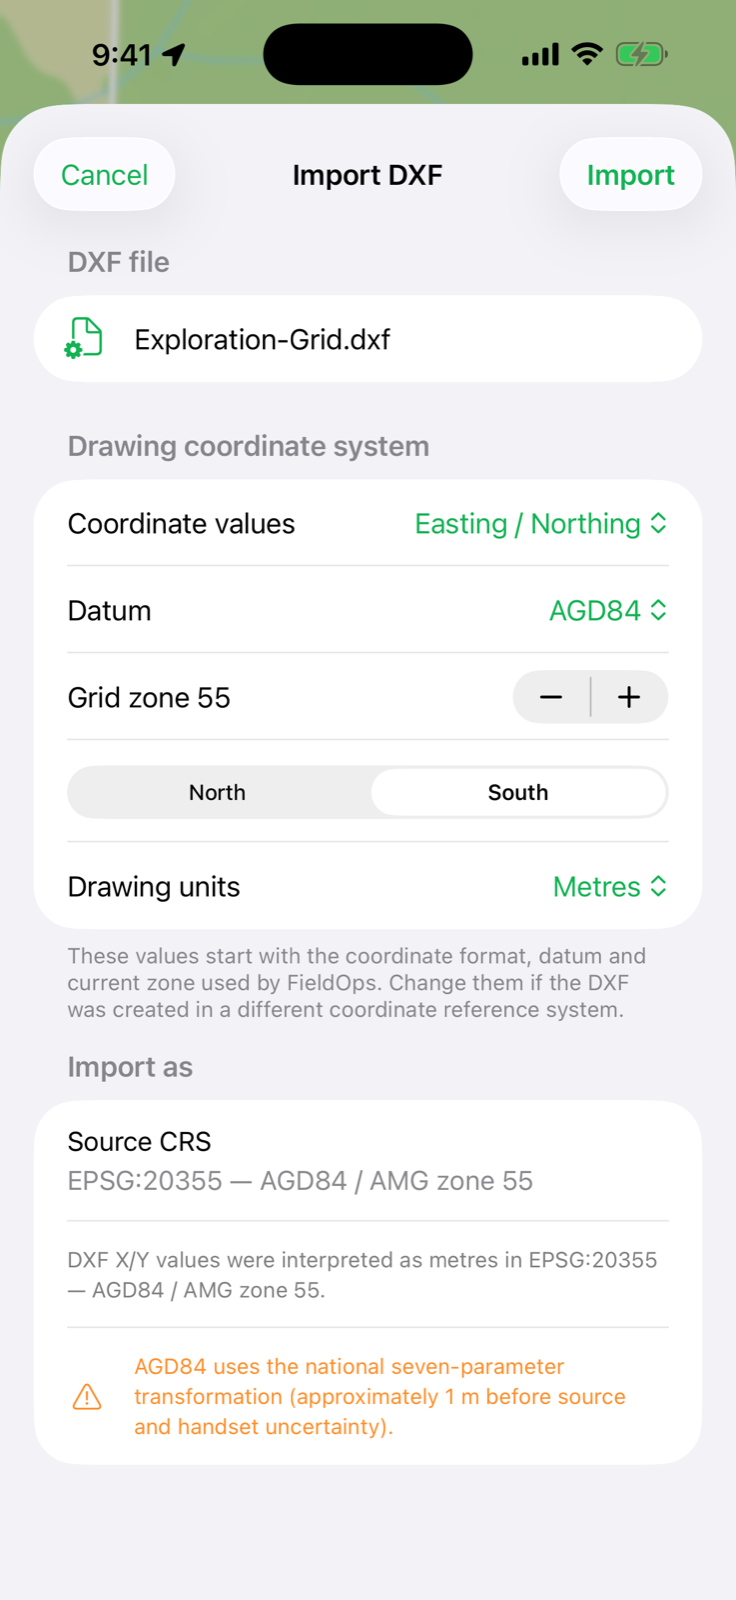
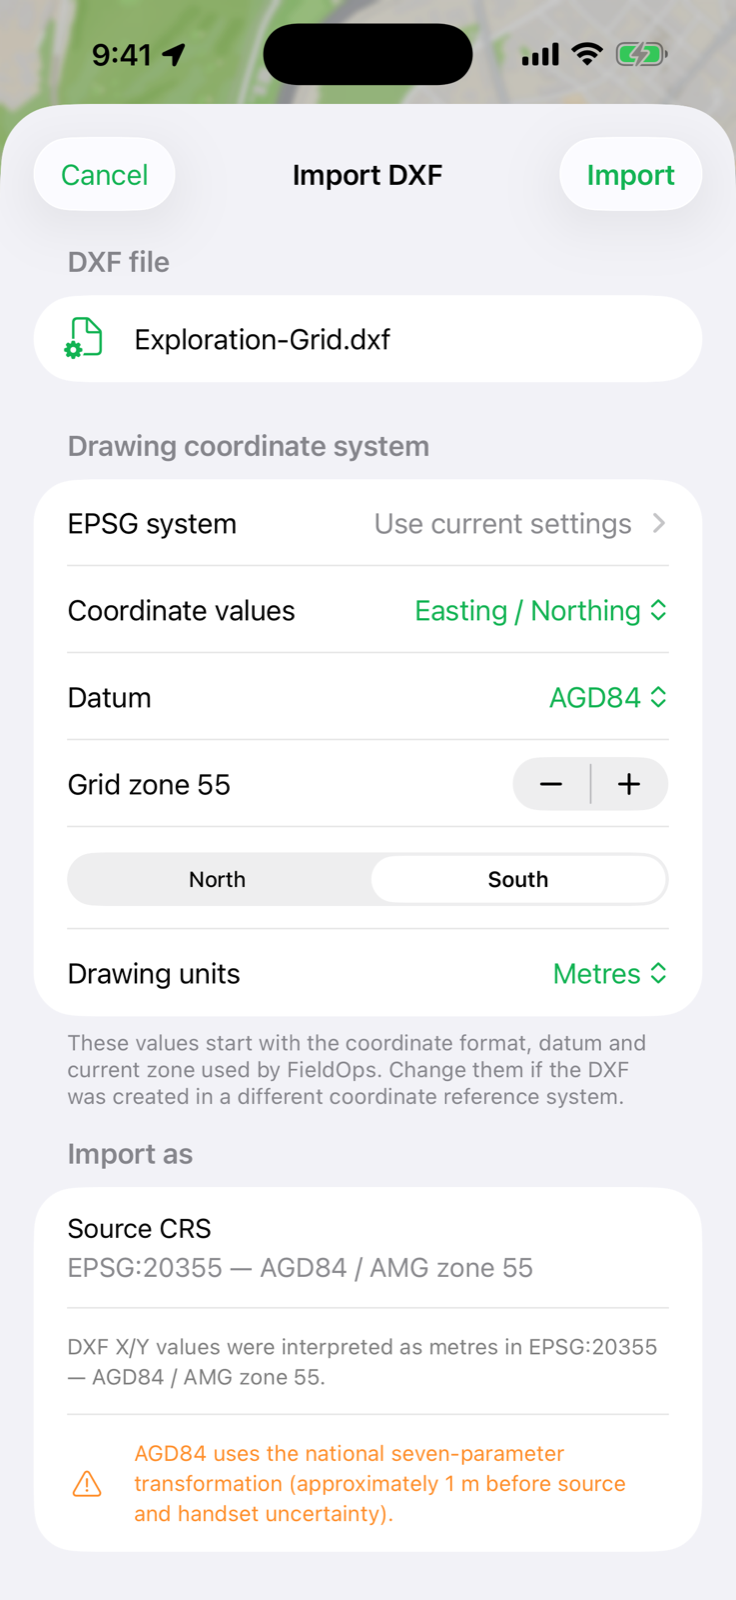
Refresh FieldOps screenshots from current app

diff --git a/docs/fieldops.html b/docs/fieldops.html
@@ -9,7 +9,7 @@
   <meta property="og:type" content="website"/>
   <meta property="og:title" content="FieldOps by DrillOps — Field evidence, mapped"/>
   <meta property="og:description" content="Capture geotagged field photos, record tracks, navigate to waypoints and bring survey drawings onto the map."/>
-  <meta property="og:image" content="https://drillops.com.au/assets/fieldops/ipad-camera.png"/>
+  <meta property="og:image" content="https://drillops.com.au/assets/fieldops/ipad-camera.jpg"/>
   <title>FieldOps by DrillOps — Field camera, tracking and mapping</title>
   <link rel="preconnect" href="https://fonts.googleapis.com"/>
   <link rel="preconnect" href="https://fonts.gstatic.com" crossorigin/>
@@ -23,10 +23,10 @@
     .capability-grid{display:grid;grid-template-columns:repeat(4,1fr);gap:14px;margin-top:52px}.capability{min-height:190px;padding:28px;border:1px solid var(--line);border-radius:10px;background:#fff;box-shadow:0 8px 24px rgba(13,27,48,.04)}.capability-icon{display:grid;place-items:center;width:42px;height:42px;margin-bottom:24px;border-radius:8px;background:#e5eee1;color:var(--accent);font:600 11px var(--mono)}.capability h3{margin-bottom:9px;font-size:18px}.capability p{color:#6b778b;line-height:1.6}
     .showcase{display:grid;grid-template-columns:.8fr 1.2fr;gap:72px;align-items:center}.showcase-copy h2{margin:14px 0 18px;font-size:clamp(38px,5vw,58px);line-height:1.08;letter-spacing:-2.4px}.showcase-copy>p{color:var(--muted);font-size:16px;line-height:1.7}.check-list{display:grid;gap:14px;margin-top:28px}.check-list span{display:flex;gap:12px;font-weight:650;line-height:1.45}.check-list span:before{content:'✓';display:grid;place-items:center;flex:0 0 24px;height:24px;border-radius:50%;background:#e5eee1;color:var(--accent)}.visual-stage{position:relative;min-height:620px;border-radius:20px;background:var(--forest);overflow:hidden}.visual-ipad{position:absolute;left:40px;top:58px;width:76%;border-radius:12px;box-shadow:0 26px 70px rgba(0,0,0,.45)}.visual-phone{position:absolute;right:28px;bottom:-45px;width:31%;border-radius:22px;box-shadow:0 24px 60px rgba(0,0,0,.55)}
     .workflow-row{display:grid;grid-template-columns:repeat(3,1fr);margin-top:54px;border-top:1px solid var(--line);border-bottom:1px solid var(--line)}.workflow-item{padding:34px 32px;border-right:1px solid var(--line);text-align:left}.workflow-item:last-child{border-right:0}.workflow-number{color:var(--lime);font-size:12px;font-weight:900;letter-spacing:1.5px}.workflow-item h3{margin:13px 0 8px;font-size:21px}.workflow-item p{color:#6b778b;line-height:1.65}
-    .screen-grid{display:grid;grid-template-columns:1.25fr 1fr 1fr;gap:18px;margin-top:52px;align-items:start}.screen-card{overflow:hidden;border:1px solid var(--line);border-radius:14px;background:#fff;box-shadow:0 18px 46px rgba(13,27,48,.09)}.screen-card img{display:block;width:100%;height:auto}.screen-copy{padding:20px 22px 22px}.screen-copy strong{display:block;margin-bottom:6px;font-size:16px}.screen-copy span{color:#6b778b;line-height:1.55}.format-row{display:flex;justify-content:center;gap:10px;flex-wrap:wrap;margin-top:34px}.format-row span{padding:10px 14px;border:1px solid #ccd8cd;border-radius:999px;background:#fff;color:var(--accent);font:600 11px var(--mono)}
+    .screen-grid{display:grid;grid-template-columns:repeat(4,1fr);gap:18px;margin-top:52px;align-items:start}.screen-card{overflow:hidden;border:1px solid var(--line);border-radius:14px;background:#fff;box-shadow:0 18px 46px rgba(13,27,48,.09)}.screen-card img{display:block;width:100%;height:auto}.screen-copy{padding:20px 22px 22px}.screen-copy strong{display:block;margin-bottom:6px;font-size:16px}.screen-copy span{color:#6b778b;line-height:1.55}.format-row{display:flex;justify-content:center;gap:10px;flex-wrap:wrap;margin-top:34px}.format-row span{padding:10px 14px;border:1px solid #ccd8cd;border-radius:999px;background:#fff;color:var(--accent);font:600 11px var(--mono)}
     .download-band{display:grid;grid-template-columns:1fr auto;gap:48px;align-items:center;padding:58px;border-radius:14px;background:var(--forest);color:#fff}.download-band h2{margin:14px 0;font-size:44px;letter-spacing:-1.5px}.download-band p{max-width:650px;color:#b9c4d2;font-size:16px;line-height:1.7}.download-band .marketing-button{margin-top:24px}.app-mark{display:grid;place-items:center;width:160px;height:160px;border-radius:34px;background:linear-gradient(145deg,#0b4a3a,#041b16);color:var(--lime);box-shadow:inset 0 0 0 1px rgba(255,255,255,.12);font:800 24px var(--mono);letter-spacing:-1px}.marketing-footer{display:flex;justify-content:space-between;gap:20px;padding:24px max(28px,calc((100vw - 1160px)/2));background:#121714;color:#7f8984;font-size:11px}.marketing-footer a{color:inherit}
-    @media(max-width:900px){.marketing-nav-link{display:none}.marketing-hero{min-height:720px;padding-top:72px}.product-stage{height:340px;margin-top:54px}.stage-ipad{right:55px}.stage-phone{width:150px;bottom:-65px}.capability-grid{grid-template-columns:1fr 1fr}.showcase{grid-template-columns:1fr;gap:44px}.visual-stage{min-height:560px}.workflow-row{grid-template-columns:1fr 1fr}.workflow-item{border-bottom:1px solid var(--line)}.screen-grid{grid-template-columns:1fr 1fr}.screen-card:first-child{grid-column:1/-1}.download-band{grid-template-columns:1fr}.app-mark{width:130px;height:130px}}
-    @media(max-width:560px){.marketing-nav{height:66px;padding:0 16px;gap:12px}.marketing-nav .marketing-button{min-height:40px;padding:0 12px;font-size:12px}.marketing-logo{font-size:22px}.marketing-hero{min-height:660px;padding:68px 16px 0}.marketing-hero h1{font-size:45px;letter-spacing:-2px}.hero-copy{font-size:17px}.product-stage{width:100%;height:250px;margin-top:45px}.stage-ipad{right:35px;padding:6px;border-radius:10px}.stage-phone{right:3px;bottom:-25px;width:105px;padding:5px;border-radius:17px}.marketing-strip{gap:18px;padding:24px 16px;font-size:9px}.marketing-section{padding:76px 16px}.marketing-section h2{font-size:38px;letter-spacing:-1.5px}.capability-grid,.workflow-row,.screen-grid{grid-template-columns:1fr}.screen-card:first-child{grid-column:auto}.workflow-item{border-right:0}.visual-stage{min-height:440px}.visual-ipad{left:18px;top:42px;width:82%}.visual-phone{right:12px;width:34%}.download-band{padding:34px 24px}.download-band h2{font-size:36px}.app-mark{width:110px;height:110px;border-radius:25px;font-size:18px}.marketing-footer{padding:22px 16px;flex-direction:column}}
+    @media(max-width:900px){.marketing-nav-link{display:none}.marketing-hero{min-height:720px;padding-top:72px}.product-stage{height:340px;margin-top:54px}.stage-ipad{right:55px}.stage-phone{width:150px;bottom:-65px}.capability-grid{grid-template-columns:1fr 1fr}.showcase{grid-template-columns:1fr;gap:44px}.visual-stage{min-height:560px}.workflow-row{grid-template-columns:1fr 1fr}.workflow-item{border-bottom:1px solid var(--line)}.screen-grid{grid-template-columns:1fr 1fr}.download-band{grid-template-columns:1fr}.app-mark{width:130px;height:130px}}
+    @media(max-width:560px){.marketing-nav{height:66px;padding:0 16px;gap:12px}.marketing-nav .marketing-button{min-height:40px;padding:0 12px;font-size:12px}.marketing-logo{font-size:22px}.marketing-hero{min-height:660px;padding:68px 16px 0}.marketing-hero h1{font-size:45px;letter-spacing:-2px}.hero-copy{font-size:17px}.product-stage{width:100%;height:250px;margin-top:45px}.stage-ipad{right:35px;padding:6px;border-radius:10px}.stage-phone{right:3px;bottom:-25px;width:105px;padding:5px;border-radius:17px}.marketing-strip{gap:18px;padding:24px 16px;font-size:9px}.marketing-section{padding:76px 16px}.marketing-section h2{font-size:38px;letter-spacing:-1.5px}.capability-grid,.workflow-row,.screen-grid{grid-template-columns:1fr}.workflow-item{border-right:0}.visual-stage{min-height:440px}.visual-ipad{left:18px;top:42px;width:82%}.visual-phone{right:12px;width:34%}.download-band{padding:34px 24px}.download-band h2{font-size:36px}.app-mark{width:110px;height:110px;border-radius:25px;font-size:18px}.marketing-footer{padding:22px 16px;flex-direction:column}}
   </style>
 </head>
 <body>
@@ -46,19 +46,19 @@
       <p class="hero-copy">Turn your iPhone or iPad into a field camera, tracking instrument and survey companion—built for exploration, drilling, construction and remote-site work.</p>
       <div class="actions"><a class="marketing-button" href="#capabilities">Explore FieldOps</a><a class="marketing-button ghost" href="./index.html">Back to DrillOps</a></div>
     </div>
-    <div class="product-stage" aria-label="FieldOps on iPad and iPhone"><div class="stage-ipad"><img src="./assets/fieldops/ipad-camera.png" alt="FieldOps camera instrument on iPad"/></div><div class="stage-phone"><img src="./assets/fieldops/iphone-dxf-map.png" alt="FieldOps DXF map on iPhone"/></div></div>
+    <div class="product-stage" aria-label="FieldOps on iPad and iPhone"><div class="stage-ipad"><img src="./assets/fieldops/ipad-camera.jpg" alt="Current FieldOps camera and measuring instrument on iPad"/></div><div class="stage-phone"><img src="./assets/fieldops/iphone-dxf-map.jpg" alt="Current FieldOps map on iPhone"/></div></div>
   </header>
 
   <div class="marketing-strip"><span>On-device records</span><span>iPhone + iPad</span><span>Projected coordinates</span><span>GPX · KML · CSV · DXF</span></div>
 
   <main>
-    <section class="marketing-section soft" id="capabilities"><div class="inner marketing-center"><div class="eyebrow">A field kit in one app</div><h2>Capture the place, not just the picture.</h2><p class="lead">FieldOps brings location, heading, elevation, roll, timestamps and project context together so every field record is useful when the team gets back to the office.</p><div class="capability-grid"><article class="capability"><div class="capability-icon">CAM</div><h3>Field camera</h3><p>Burn coordinates, time and instrument readings directly into field photographs.</p></article><article class="capability"><div class="capability-icon">GPS</div><h3>Track recording</h3><p>Record routes and field movement, then export the data in common spatial formats.</p></article><article class="capability"><div class="capability-icon">NAV</div><h3>Waypoint navigation</h3><p>Create or import points and navigate with live distance, bearing and arrival guidance.</p></article><article class="capability"><div class="capability-icon">DXF</div><h3>Drawing overlays</h3><p>Import ASCII DXF geometry in its source coordinate system and inspect it on the map.</p></article></div></div></section>
+    <section class="marketing-section soft" id="capabilities"><div class="inner marketing-center"><div class="eyebrow">A field kit in one app</div><h2>Capture the place, not just the picture.</h2><p class="lead">FieldOps brings location, heading, elevation, roll, timestamps and project context together so every field record is useful when the team gets back to the office.</p><div class="capability-grid"><article class="capability"><div class="capability-icon">CAM</div><h3>Camera + measure</h3><p>Burn instrument readings into field photographs and open AR measurement from the camera.</p></article><article class="capability"><div class="capability-icon">GPS</div><h3>Track recording</h3><p>Record routes and field movement, then export the data in common spatial formats.</p></article><article class="capability"><div class="capability-icon">NAV</div><h3>Waypoint navigation</h3><p>Create or import points and navigate with live distance, bearing and arrival guidance.</p></article><article class="capability"><div class="capability-icon">DXF</div><h3>Drawing overlays</h3><p>Import ASCII DXF geometry in its source coordinate system and inspect it on the map.</p></article></div></div></section>
 
-    <section class="marketing-section"><div class="inner showcase"><div class="showcase-copy"><div class="eyebrow">Made for field conditions</div><h2>Move from survey plan to ground truth.</h2><p>Bring the planned geometry with you, see where you are against it and capture a location-stamped record at the point of work.</p><div class="check-list"><span>Import WGS 84, GDA2020, GDA94, AGD84 and AGD66 coordinates</span><span>Work with geographic and projected UTM, MGA and AMG grids</span><span>Keep field records on the device and under your control</span><span>Export tracks and waypoints for the rest of the project team</span></div></div><div class="visual-stage"><img class="visual-ipad" src="./assets/fieldops/ipad-dxf-map.png" alt="Imported DXF survey drawing in FieldOps on iPad" loading="lazy"/><img class="visual-phone" src="./assets/fieldops/iphone-camera.png" alt="FieldOps field camera on iPhone" loading="lazy"/></div></div></section>
+    <section class="marketing-section"><div class="inner showcase"><div class="showcase-copy"><div class="eyebrow">Made for field conditions</div><h2>Move from survey plan to ground truth.</h2><p>Bring the planned geometry with you, see where you are against it and capture a location-stamped record at the point of work.</p><div class="check-list"><span>Import WGS 84, GDA2020, GDA94, AGD84 and AGD66 coordinates</span><span>Work with geographic and projected UTM, MGA and AMG grids</span><span>Keep field records on the device and under your control</span><span>Export tracks and waypoints for the rest of the project team</span></div></div><div class="visual-stage"><img class="visual-ipad" src="./assets/fieldops/ipad-dxf-map.jpg" alt="Current FieldOps field map on iPad" loading="lazy"/><img class="visual-phone" src="./assets/fieldops/iphone-camera.jpg" alt="Current FieldOps camera and measuring instrument on iPhone" loading="lazy"/></div></div></section>
 
     <section class="marketing-section soft" id="workflow"><div class="inner marketing-center"><div class="eyebrow">One clear field workflow</div><h2>Instrument, map and record.</h2><p class="lead">Each view stays clear at a glance, whether you are lining up a photo, checking a drawing or documenting an observation.</p><div class="workflow-row"><article class="workflow-item"><div class="workflow-number">01 · ORIENT</div><h3>Know the direction</h3><p>Read heading, pitch, roll, elevation and accuracy in one high-contrast display.</p></article><article class="workflow-item"><div class="workflow-number">02 · DOCUMENT</div><h3>Add the observation</h3><p>Capture a field photo and add a note so the image keeps its operational context.</p></article><article class="workflow-item"><div class="workflow-number">03 · LOCATE</div><h3>Use the right grid</h3><p>Choose the drawing datum, coordinate type, zone, hemisphere and units at import.</p></article></div></div></section>
 
-    <section class="marketing-section"><div class="inner marketing-center"><div class="eyebrow">The field day, from three angles</div><h2>Actual screens. Actual field tools.</h2><p class="lead">The interface is designed for fast reading outdoors while keeping detailed spatial controls close by.</p><div class="screen-grid"><article class="screen-card"><img src="./assets/fieldops/iphone-instrument.png" alt="FieldOps live instrument on iPhone" loading="lazy"/><div class="screen-copy"><strong>Live instrument</strong><span>Heading, angles, elevation and accuracy at a glance.</span></div></article><article class="screen-card"><img src="./assets/fieldops/iphone-photo-note.png" alt="FieldOps photo note workflow" loading="lazy"/><div class="screen-copy"><strong>Photo notes</strong><span>Add an observation immediately after capture.</span></div></article><article class="screen-card"><img src="./assets/fieldops/iphone-dxf-import.png" alt="FieldOps coordinate-aware DXF import" loading="lazy"/><div class="screen-copy"><strong>Coordinate-aware import</strong><span>Bring drawings in using their source reference system.</span></div></article></div><div class="format-row"><span>GPX tracks + points</span><span>KML field records</span><span>CSV waypoint import</span><span>ASCII DXF overlays</span><span>EPSG coordinate systems</span></div></div></section>
+    <section class="marketing-section"><div class="inner marketing-center"><div class="eyebrow">The field day, from four angles</div><h2>Actual screens. Actual field tools.</h2><p class="lead">These screens come from the current FieldOps build, with outdoor-readable instruments and detailed spatial controls close by.</p><div class="screen-grid"><article class="screen-card"><img src="./assets/fieldops/iphone-instrument.jpg" alt="Current FieldOps live camera instrument on iPhone" loading="lazy"/><div class="screen-copy"><strong>Camera + measure</strong><span>Read heading and angles, capture evidence or open AR measurement.</span></div></article><article class="screen-card"><img src="./assets/fieldops/iphone-photo-note.png" alt="Current FieldOps photo note workflow" loading="lazy"/><div class="screen-copy"><strong>Photo notes</strong><span>Add an observation immediately after capture.</span></div></article><article class="screen-card"><img src="./assets/fieldops/iphone-dxf-import.png" alt="Current FieldOps coordinate-aware DXF import" loading="lazy"/><div class="screen-copy"><strong>Coordinate-aware import</strong><span>Bring drawings in using their source reference system.</span></div></article><article class="screen-card"><img src="./assets/fieldops/iphone-navigation.png" alt="Current FieldOps coordinate navigation entry screen" loading="lazy"/><div class="screen-copy"><strong>Coordinate navigation</strong><span>Enter WGS 84 or projected coordinates and head straight to the target.</span></div></article></div><div class="format-row"><span>GPX tracks + points</span><span>KML field records</span><span>CSV waypoint import</span><span>ASCII DXF overlays</span><span>EPSG coordinate systems</span></div></div></section>
 
     <section class="marketing-section soft" id="availability"><div class="inner download-band"><div><div class="eyebrow">FieldOps for iOS and iPadOS</div><h2>Take better field context with you.</h2><p>FieldOps is prepared for Apple devices. For release availability, setup guidance or coordinate-system questions, visit FieldOps Support.</p><a class="marketing-button" href="./fieldops-support.html">Visit FieldOps Support</a></div><div class="app-mark" aria-hidden="true">FIELD<br/>OPS</div></div></section>
   </main>
